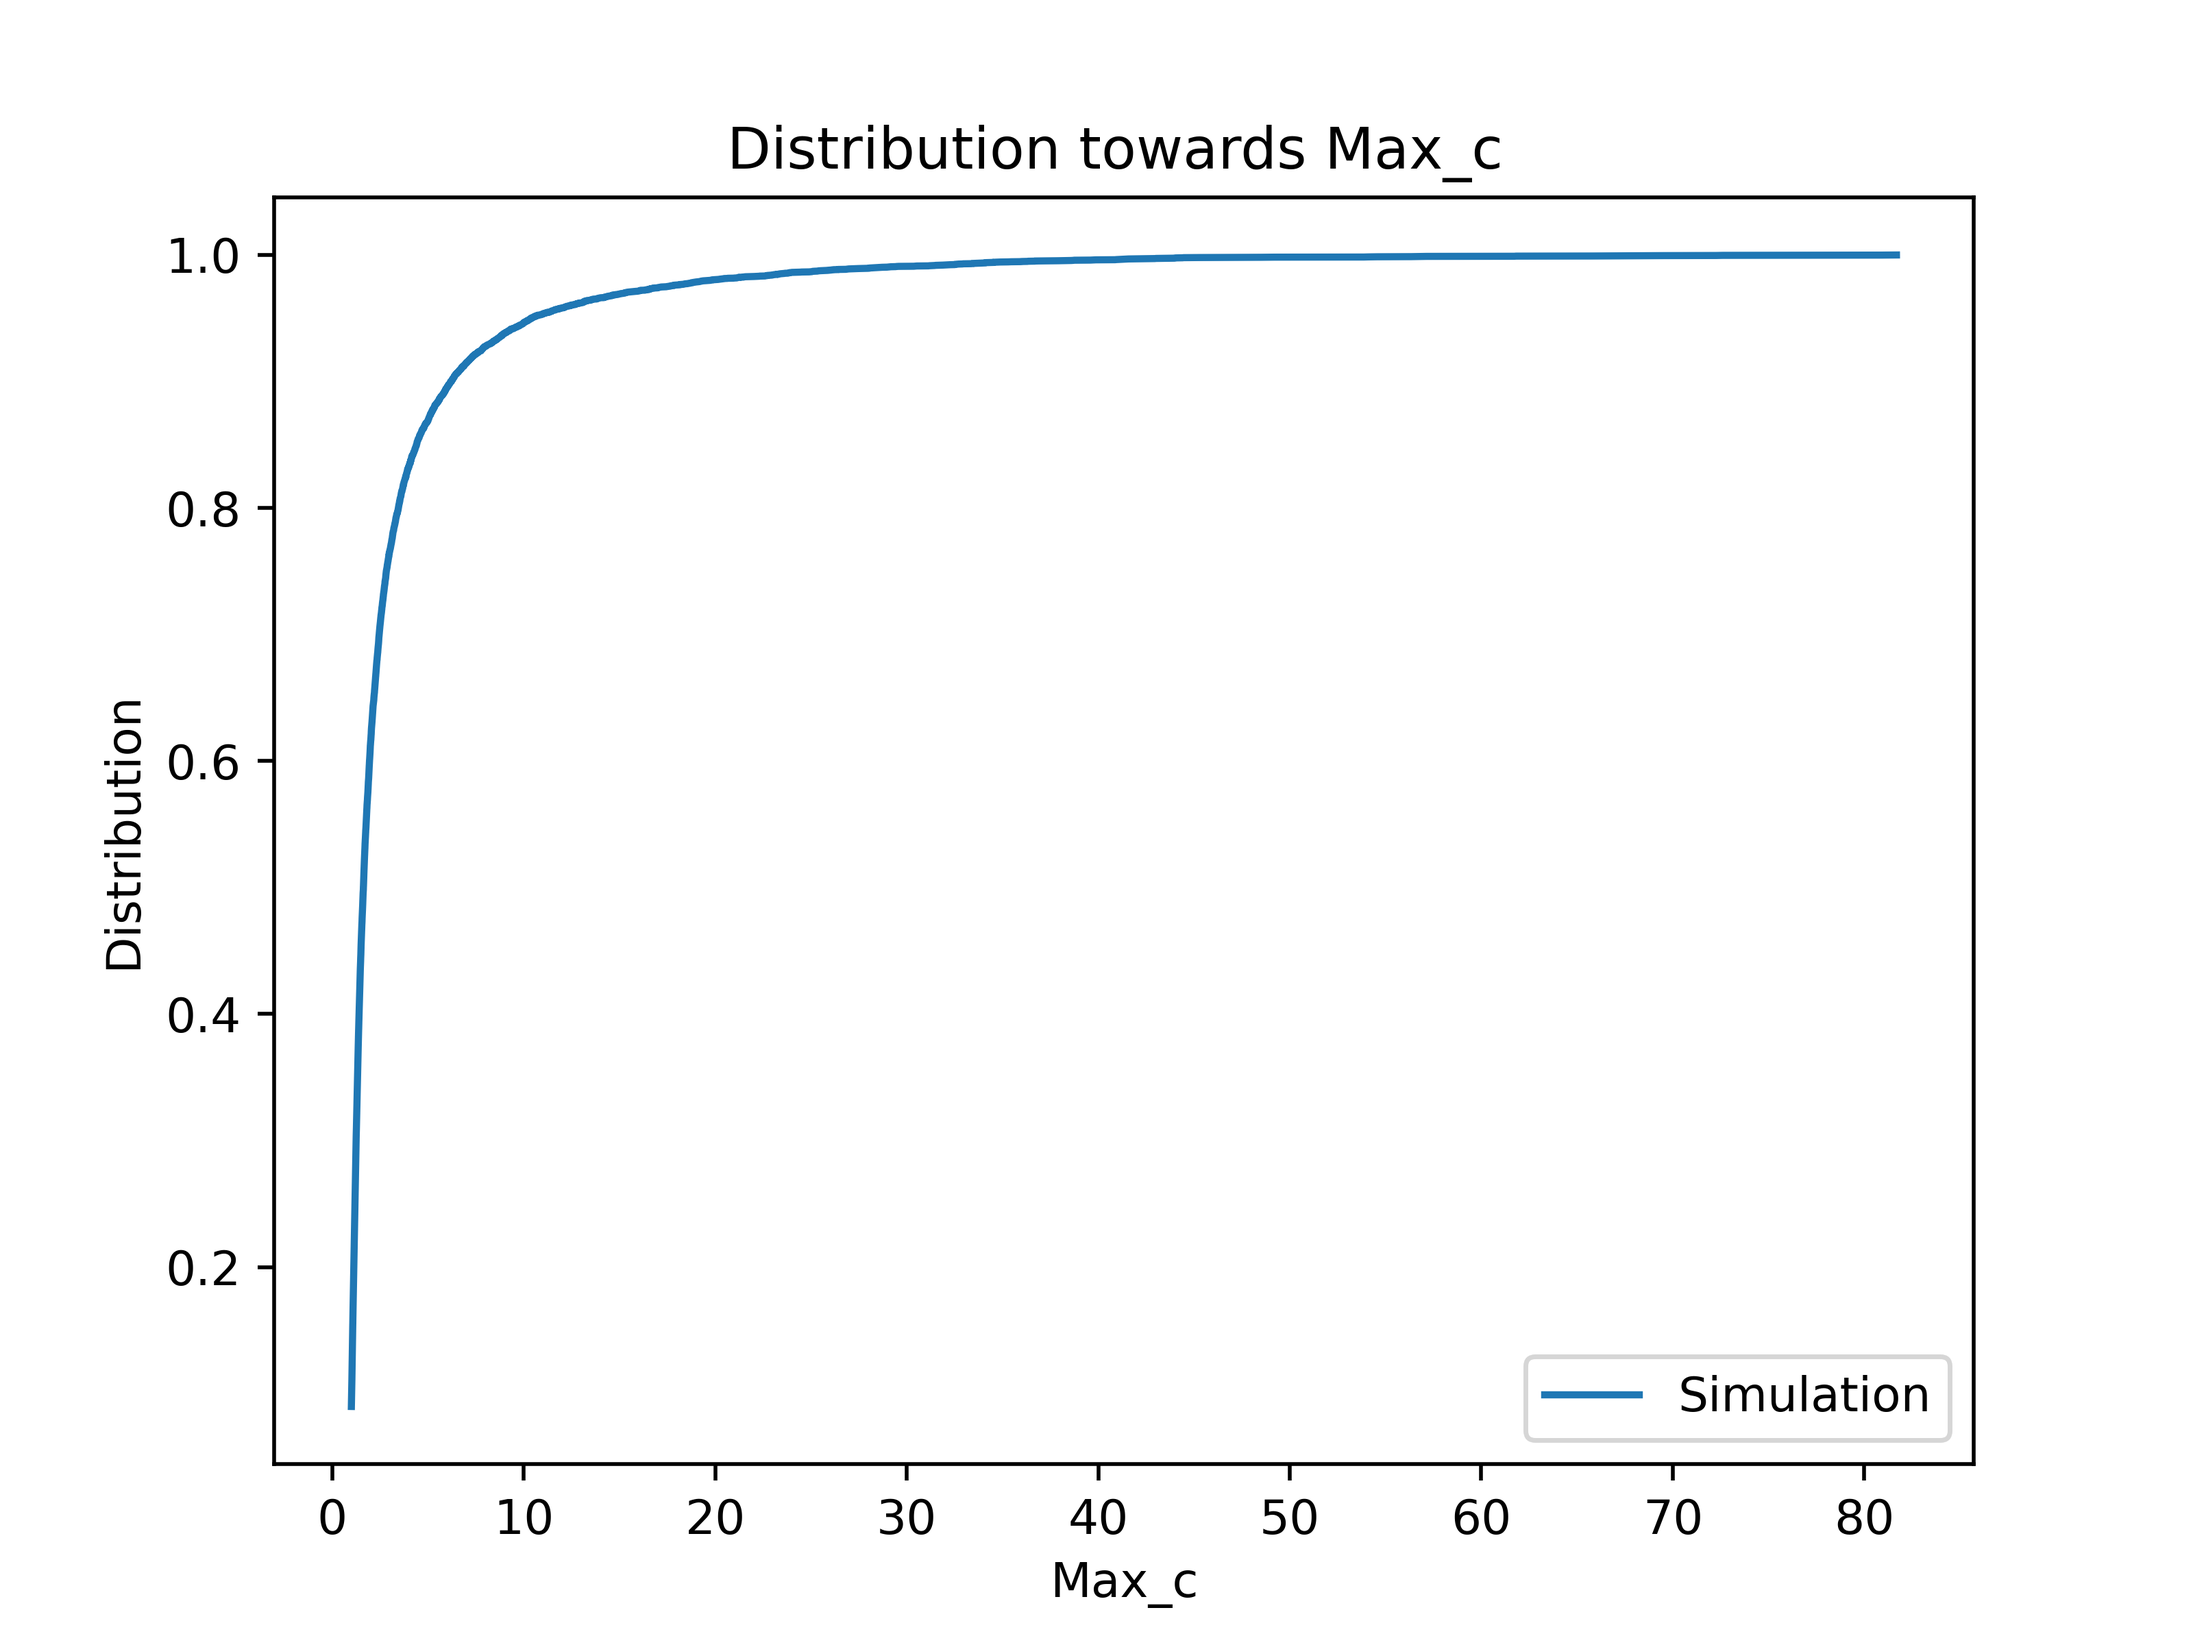
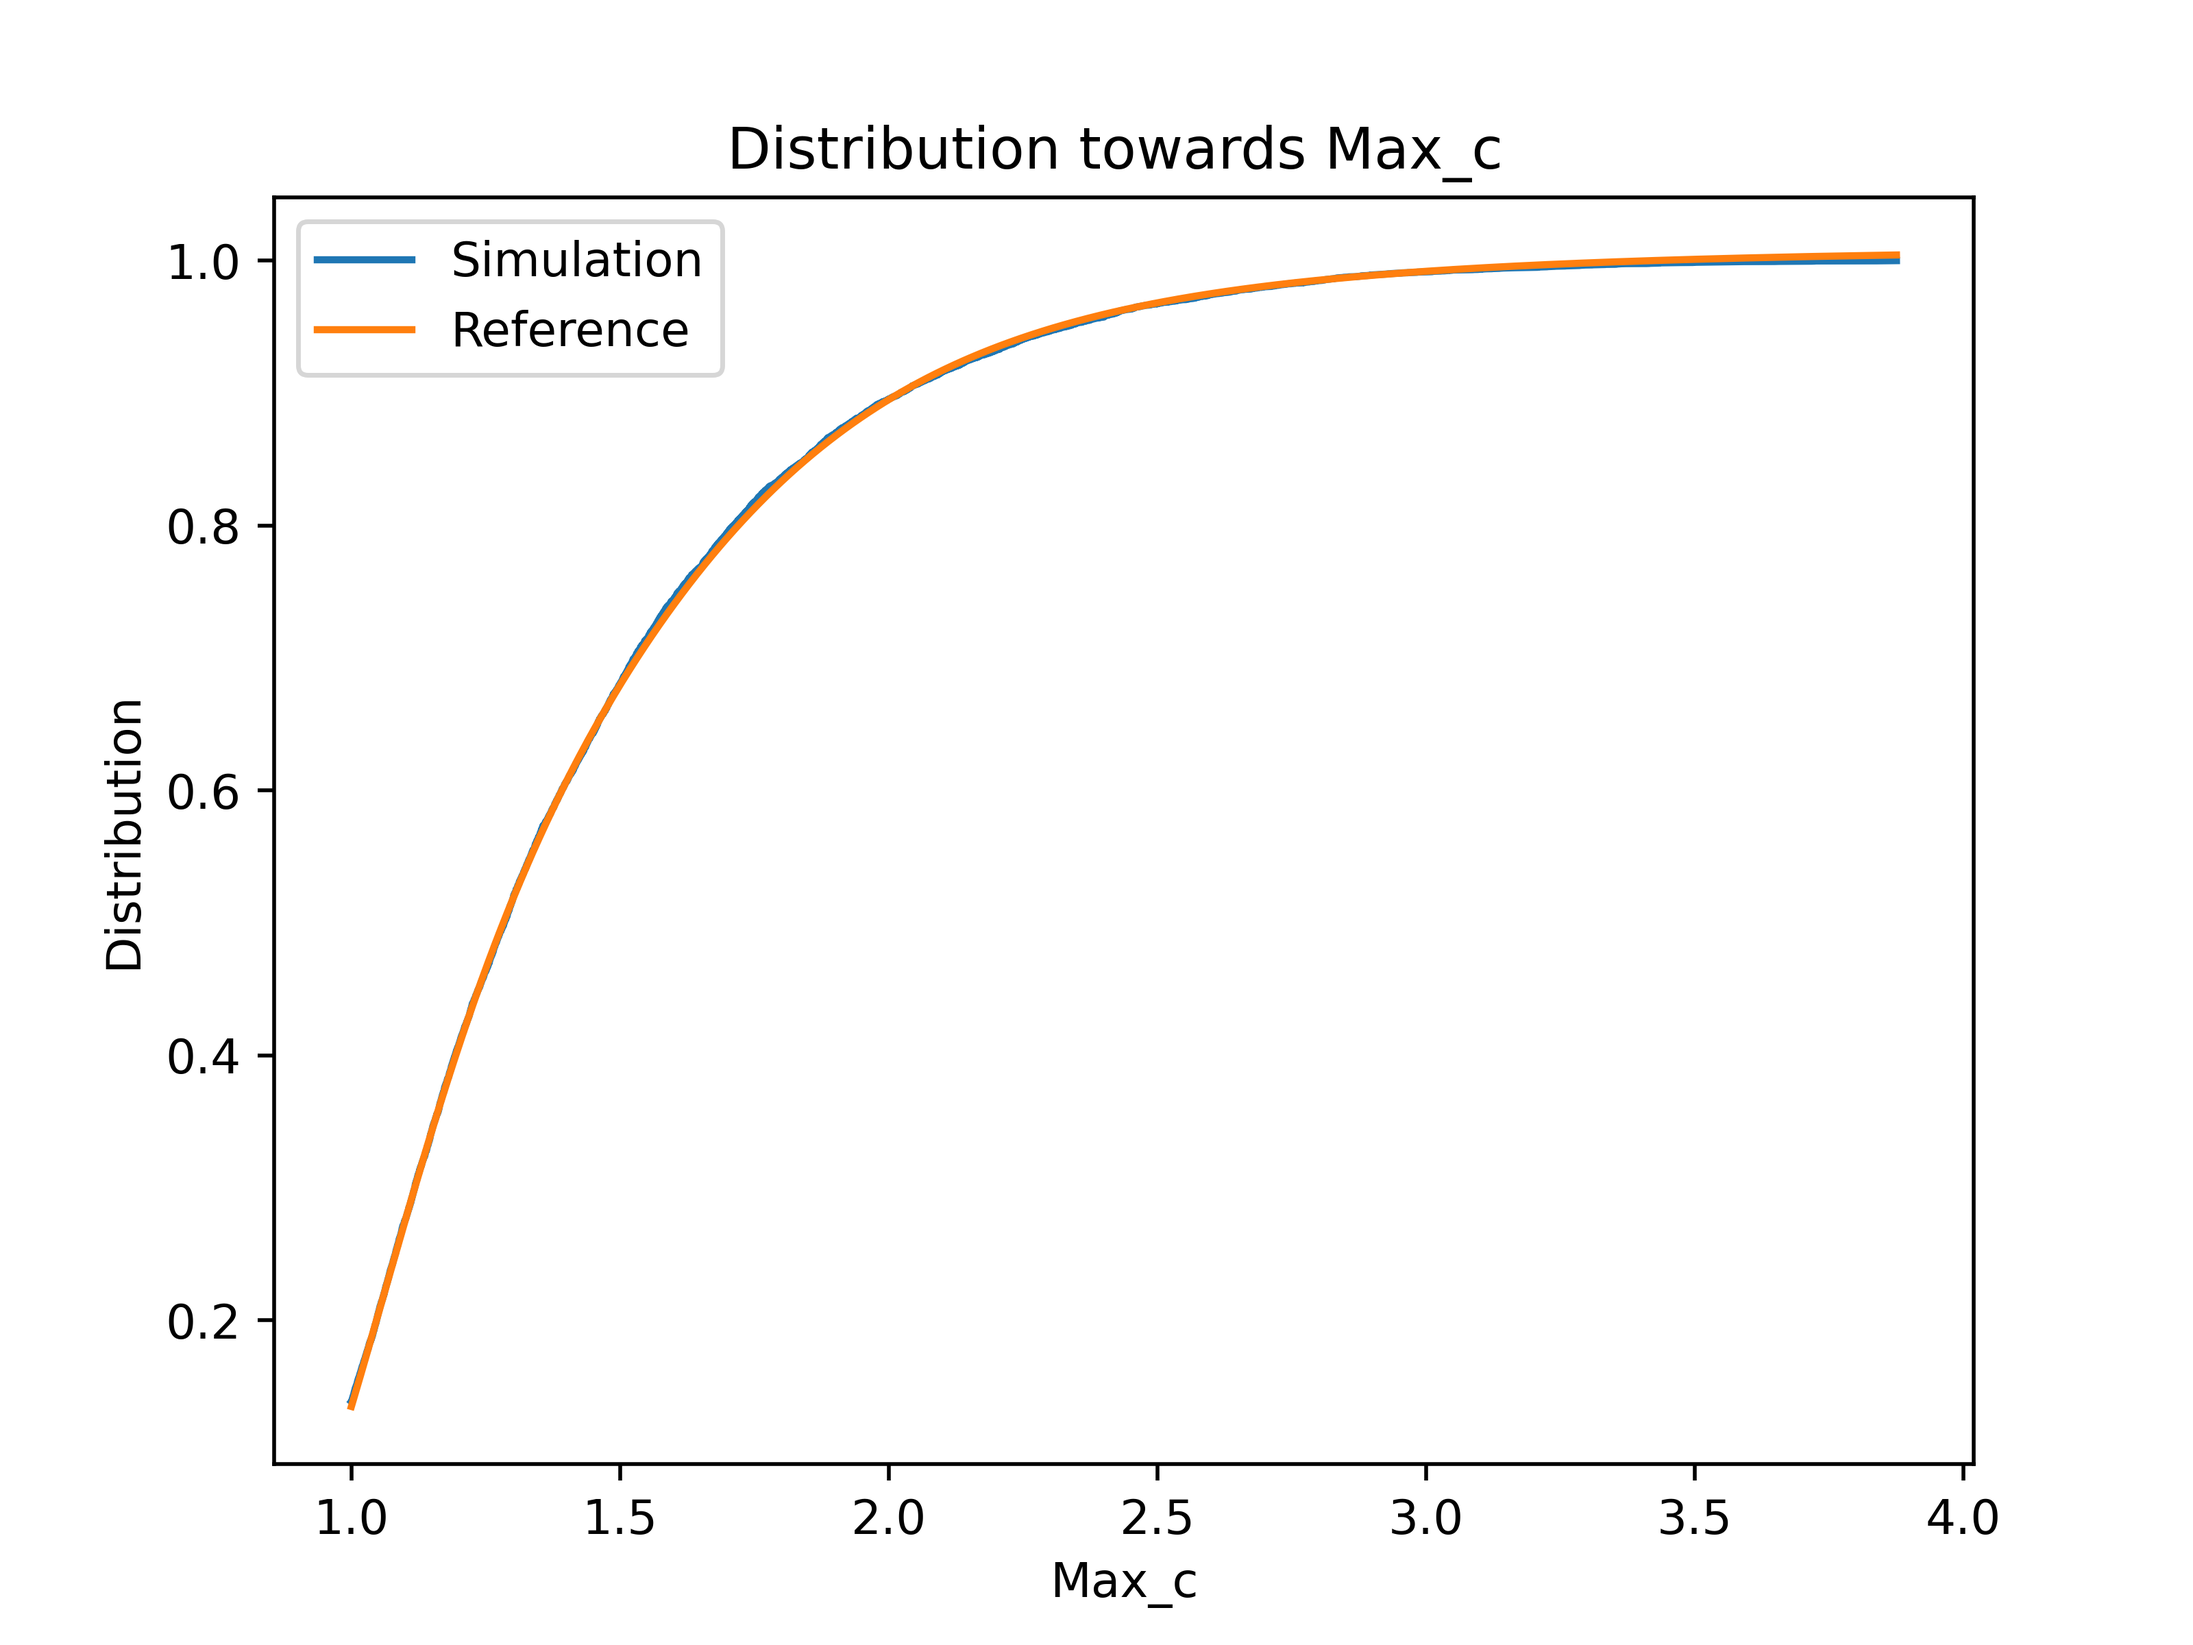
Add curve fitting for maximum distribution

diff --git a/main.py b/main.py
@@ -4,8 +4,9 @@ import numpy as np
 import random
 import matplotlib
 import matplotlib.pyplot as plt
+import os
 from functools import partial
-from scipy import stats
+from scipy import optimize, stats
 
 
 # For fast debugging
@@ -164,6 +165,8 @@ def draw(func, x_label: str, y_label: str, ref_func=None, desc: str = '', filena
 
 if __name__ == '__main__':
     matplotlib.rcParams["figure.dpi"] = 500
+    if not os.path.isdir('figures'):
+        os.makedirs('figures', exist_ok=True)
 
     # Problem 1.2
     # Relationship between E[T_c] and p, fixing a_2 - a_1 = 4
@@ -172,6 +175,7 @@ if __name__ == '__main__':
             p = 0.5 + i * 0.01
             f = partial(simulate, 0, 4, p, 1 - p, 4000)
             yield p, expectation(f, 10000)
+    print('Running E[T_c] - p relationship ...')
     draw(e_tc_p, 'p', 'E[T_c]', lambda p: 4 / 2 / (2 * p - 1),
          filename='figures/discrete_1d_e_tc_p')
 
@@ -180,6 +184,7 @@ if __name__ == '__main__':
         for i in range(0, 34, 2):
             f = partial(simulate, 0, i, 0.8, 0.2, 4000)
             yield i, expectation(f, 10000)
+    print('Running E[T_c] - (a_2 - a_1) relationship ...')
     draw(e_tc_delta_a, 'a_2 - a_1', 'E[T_c]', lambda a: a / 2 / (2 * 0.8 - 1),
          desc='(even number)', filename='figures/discrete_1d_e_tc_a')
 
@@ -189,6 +194,7 @@ if __name__ == '__main__':
             p = 0.5 + i * 0.01
             f = partial(simulate, 0, 4, p, 1 - p, 8000)
             yield p, variance(f, 100000)
+    print('Running Var[T_c] - p relationship ...')
     draw(e_var_p, 'p', 'Var[T_c]', lambda p: 4 * (1 - p) * p / ((2 * p - 1) ** 3),
          filename='figures/discrete_1d_var_tc_p')
 
@@ -197,6 +203,7 @@ if __name__ == '__main__':
         for i in range(0, 34, 2):
             f = partial(simulate, 0, i, 0.8, 0.2, 8000)
             yield i, variance(f, 100000)
+    print('Running Var[T_c] - (a_2 - a_1) relationship ...')
     draw(e_var_delta_a, 'a_2 - a_1', 'Var[T_c]', lambda a: a * (1 - 0.8) * 0.8 / ((2 * 0.8 - 1) ** 3),
          desc='(even number)', filename='figures/discrete_1d_var_tc_a')
 
@@ -218,6 +225,7 @@ if __name__ == '__main__':
         f = partial(simulate, 0, 4, 0.5, 0.5, p13_steps_limit, True)
         a, d = multiple_simulate(f, False, 1000000)
         return d
+    print('Running discrete 1D T_c distribution ...')
     draw(t_c_distribution, 'T_c', 'Distribution', lambda n: p_tc_n(0, 4, n),
          filename='figures/discrete_1d_distribution')
 
@@ -247,6 +255,7 @@ if __name__ == '__main__':
         f = partial(simulate_2d, (0, 0), (2, 2), p2_steps_limit)
         a, d = multiple_simulate(f, False, 1000000)
         return d
+    print('Running discrete 2D T_c distribution ...')
     draw(t_c_distribution_2d, 'T_c', '2D Distribution', lambda n: p2d[2 * n],
          filename='figures/discrete_2d_distribution')
 
@@ -256,6 +265,7 @@ if __name__ == '__main__':
         f = partial(simulate_brownian, 0, 1, 20000, 0.0005)
         a, d = multiple_simulate(f, True, 10000)
         return d
+    print('Running Brownian T_c distribution ...')
     draw(brownian_t_c_distribution, 'T_c', 'Distribution', lambda t: 2 * (1 - stats.norm.cdf(1 / math.sqrt(2 * t))),
          filename='figures/brownian_t_c_distribution')
 
@@ -264,6 +274,7 @@ if __name__ == '__main__':
         f = partial(simulate_brownian, 0, 1, 200000, 0.01, return_pos=True)
         a, d = multiple_simulate(f, True, 10000, True)
         return d
+    print('Running Brownian X_c distribution ...')
     draw(brownian_x_c_distribution, 'X_c', 'Distribution', lambda x: 0.5 + math.atan(2 * x - 1) / math.pi,
          filename='figures/brownian_x_c_distribution')
 
@@ -273,11 +284,25 @@ if __name__ == '__main__':
         f = partial(simulate_brownian, 0, 1, 200000, 0.01, return_min=True)
         a, d = multiple_simulate(f, True, 10000, True)
         return d
+    print('Running Brownian Min_c distribution ...')
     draw(brownian_min_c_distribution, 'Min_c', 'Distribution', filename='figures/brownian_min_c_distribution')
 
-    # Distribution for Max_c of Brownian motion when a_1 = 0, a_2 = 1
+    # Distribution for Max_c of Brownian motion when a_1 = 0, a_2 = 1 (with guess)
+    print('Running Brownian Max_c distribution (with guess) ...')
+
+    def guess_func(x, a, b, c, d, e, f):
+        return a + np.arctan(b * x * x * x + c * x * x + d * x + e) * f
+
+    # Simulation
+    f = partial(simulate_brownian, 0, 1, 200, 0.01, return_max=True)
+    a, d = multiple_simulate(f, True, 20000, True)
+    opt, cov = optimize.curve_fit(guess_func, [x[0] for x in d], [x[1] for x in d], maxfev=1000000, method='trf')
+    print(f' > Opt results: {opt}')
+    ref = partial(guess_func, a=opt[0], b=opt[1], c=opt[2], d=opt[3], e=opt[4], f=opt[5])
+
     def brownian_max_c_distribution():
-        f = partial(simulate_brownian, 0, 1, 200000, 0.01, return_max=True)
-        a, d = multiple_simulate(f, True, 10000, True)
+        f = partial(simulate_brownian, 0, 1, 200, 0.01, return_max=True)
+        a, d = multiple_simulate(f, True, 20000, True)
         return d
-    draw(brownian_max_c_distribution, 'Max_c', 'Distribution', filename='figures/brownian_max_c_distribution')
+    draw(brownian_max_c_distribution, 'Max_c', 'Distribution', filename='figures/brownian_max_c_distribution',
+         ref_func=ref)
